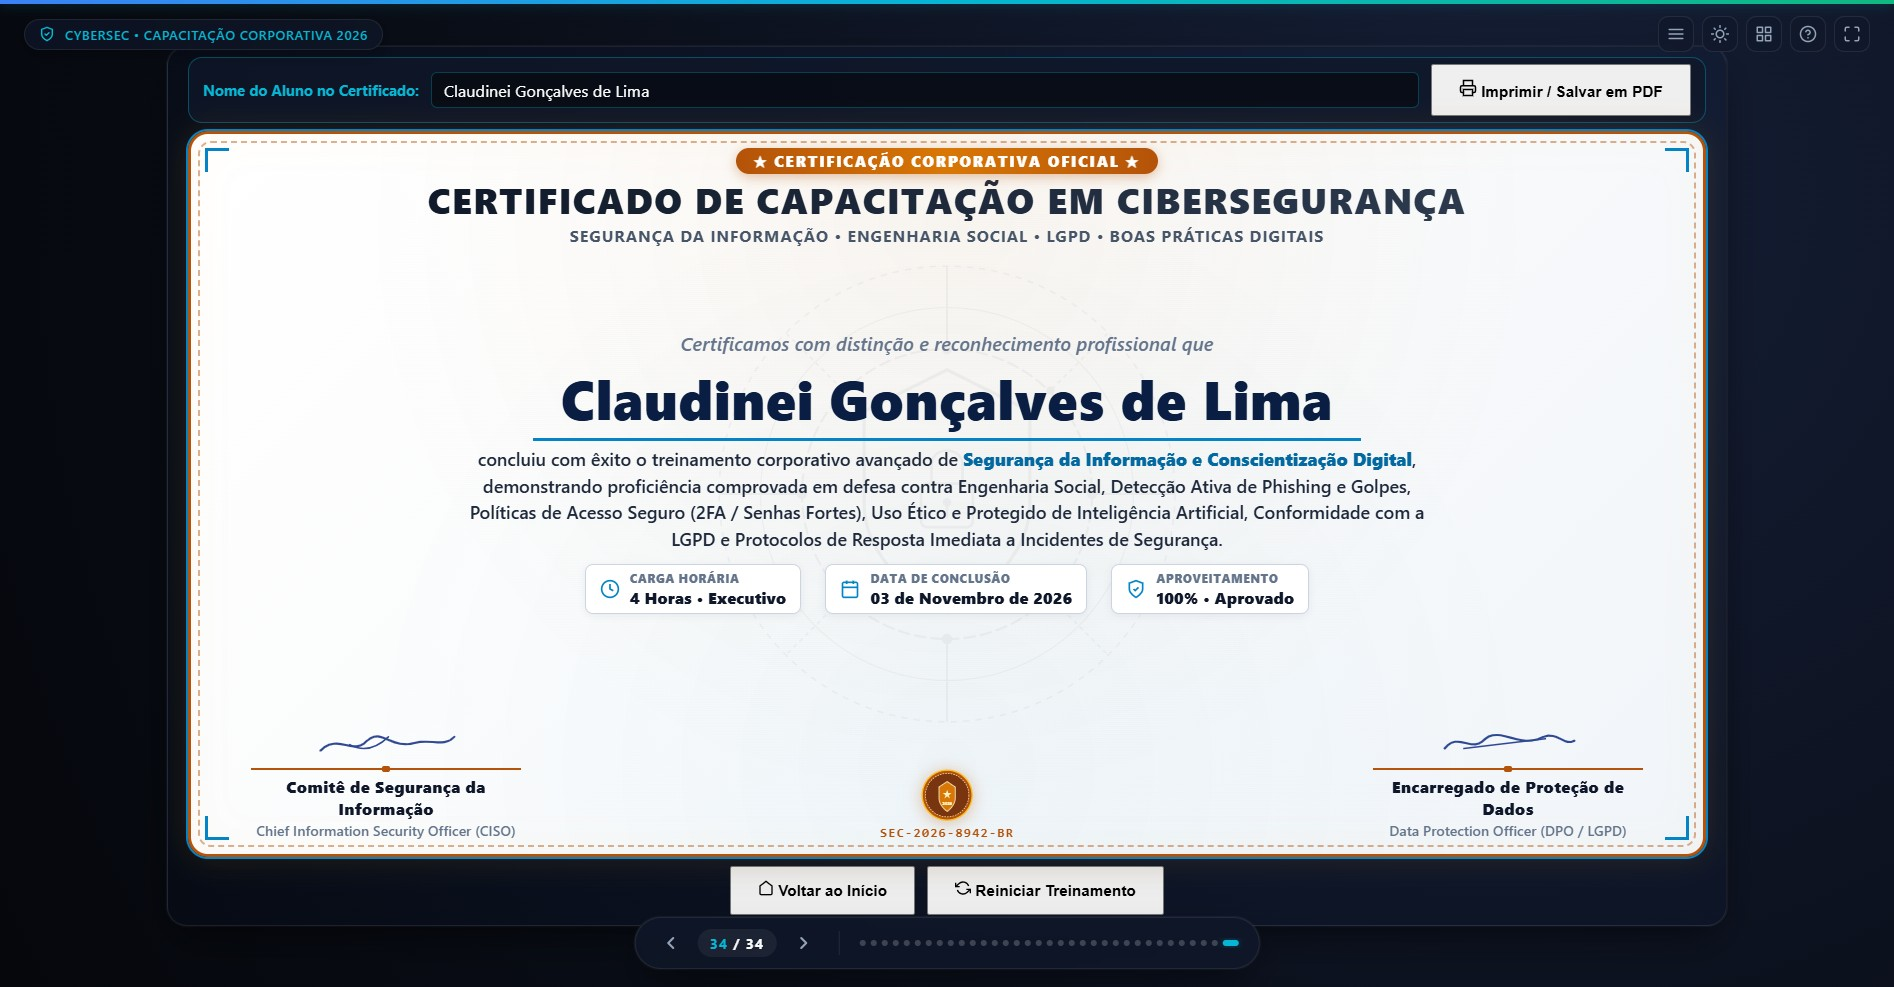
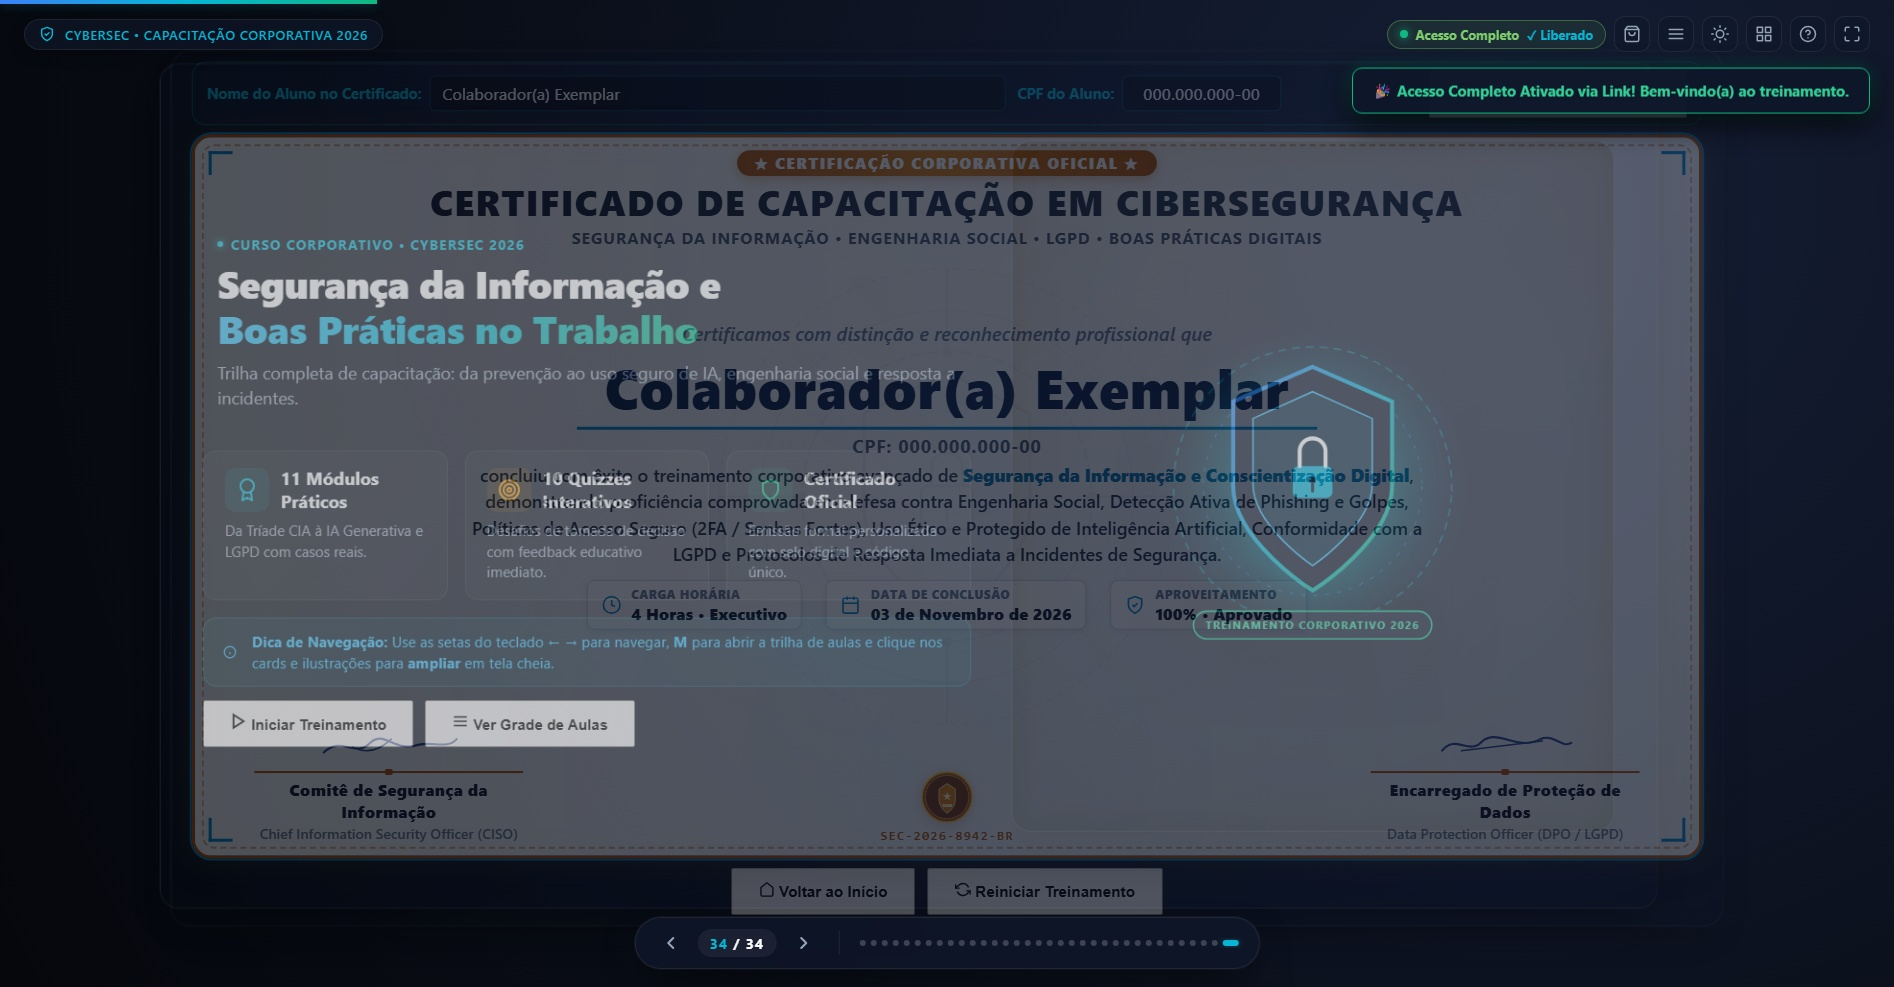
feat: remove pacote corporativo B2B da landing e adiciona campo de CPF dinamico ao certificado

diff --git a/landing.html b/landing.html
@@ -329,7 +329,7 @@
         <div class="lp-module-item" style="border-color: rgba(245, 158, 11, 0.4); background: rgba(245, 158, 11, 0.04);">
           <div class="lp-module-badge" style="color: #fbbf24;">Módulo 11 • Conclusão</div>
           <h3 class="lp-module-title">Dashboard Executivo & Certificação Oficial</h3>
-          <p class="lp-module-desc">Revise seu histórico de pontuação, verifique sua taxa de acerto nos quizzes e emita o certificado com seu nome e data.</p>
+          <p class="lp-module-desc">Revise seu histórico de pontuação, verifique sua taxa de acerto nos quizzes e emita o certificado oficial com seu nome, CPF e data de conclusão.</p>
           <div class="lp-module-topics">
             <span class="lp-module-pill">Score 100%</span>
             <span class="lp-module-pill">Certificado Oficial</span>
@@ -423,7 +423,7 @@
             </li>
             <li class="lp-pricing-item">
               <svg class="lp-check-icon" viewBox="0 0 24 24" fill="none" stroke="currentColor" stroke-width="2.5"><polyline points="20 6 9 17 4 12"/></svg>
-              <span><strong>Certificado Executivo Oficial</strong> em PDF</span>
+              <span><strong>Certificado Executivo Oficial</strong> em PDF (com Nome e CPF)</span>
             </li>
             <li class="lp-pricing-item">
               <svg class="lp-check-icon" viewBox="0 0 24 24" fill="none" stroke="currentColor" stroke-width="2.5"><polyline points="20 6 9 17 4 12"/></svg>
@@ -440,36 +440,6 @@
           </p>
         </div>
 
-        <!-- Plano Corporativo B2B -->
-        <div class="lp-pricing-card lp-pricing-card-b2b">
-          <h3 class="lp-pricing-title">Pacote Corporativo (Empresas)</h3>
-          <p class="lp-pricing-desc">Capacite toda a sua equipe para cumprimento imediato das normas da LGPD e ISO 27001.</p>
-
-          <div class="lp-price-box">
-            <div style="font-size: 1.1rem; color: var(--lp-cyan); font-weight: 800; margin-bottom: 4px;">PLANO PERSONALIZADO</div>
-            <div style="font-size: 2.2rem; font-weight: 900; color: #fff;">Consulte Pacotes</div>
-            <div class="lp-price-installments">Condições sob medida a partir de 10 colaboradores</div>
-          </div>
-
-          <ul class="lp-pricing-list">
-            <li class="lp-pricing-item">
-              <svg class="lp-check-icon" viewBox="0 0 24 24" fill="none" stroke="currentColor" stroke-width="2.5"><polyline points="20 6 9 17 4 12"/></svg>
-              <span><strong>Logotipo da sua empresa</strong> no certificado</span>
-            </li>
-            <li class="lp-pricing-item">
-              <svg class="lp-check-icon" viewBox="0 0 24 24" fill="none" stroke="currentColor" stroke-width="2.5"><polyline points="20 6 9 17 4 12"/></svg>
-              <span>Relatório de conclusão para auditoria e RH</span>
-            </li>
-            <li class="lp-pricing-item">
-              <svg class="lp-check-icon" viewBox="0 0 24 24" fill="none" stroke="currentColor" stroke-width="2.5"><polyline points="20 6 9 17 4 12"/></svg>
-              <span>Emissão de Nota Fiscal Corporativa</span>
-            </li>
-          </ul>
-
-          <a href="https://wa.me/5500000000000?text=Olá!%20Gostaria%20de%20um%20orçamento%20corporativo%20para%20o%20Treinamento%20de%20Cibersegurança." class="lp-btn lp-btn-secondary lp-btn-lg" style="width: 100%;" target="_blank" rel="noopener">
-            Falar com Consultor B2B
-          </a>
-        </div>
       </div>
 
       <!-- Garantia -->
@@ -545,7 +515,7 @@
             <svg class="lp-faq-icon" viewBox="0 0 24 24" fill="none" stroke="currentColor" stroke-width="2.5"><polyline points="6 9 12 15 18 9"/></svg>
           </button>
           <div class="lp-faq-answer">
-            <p>Sim, com certeza! Emitimos notas fiscais para pessoas físicas e jurídicas (PJ). Para pacotes corporativos de equipes, entre em contato pelo nosso atendimento B2B.</p>
+            <p>Sim, com certeza! Emitimos notas fiscais para pessoas físicas e jurídicas (PJ) para comprovação ou reembolso corporativo.</p>
           </div>
         </div>
       </div>

diff --git a/js/presentation.js b/js/presentation.js
@@ -124,7 +124,8 @@
     isUnlockModalOpen: false,
     toastTimer: null,
     quizzes: {},
-    studentName: 'Colaborador Exemplar',
+    studentName: 'Colaborador(a) Exemplar',
+    studentCpf: '000.000.000-00',
     touchStartX: 0,
     touchStartY: 0,
     touchEndX: 0,
@@ -161,7 +162,9 @@
     drawerProgressPercent: document.getElementById('drawer-progress-percent'),
     drawerProgressBar: document.getElementById('drawer-progress-bar'),
     certStudentNameInput: document.getElementById('cert-student-name'),
+    certStudentCpfInput: document.getElementById('cert-student-cpf'),
     certDisplayName: document.getElementById('cert-display-name'),
+    certDisplayCpf: document.getElementById('cert-display-cpf'),
     statModulesCompleted: document.getElementById('stat-modules-completed'),
     statScorePercent: document.getElementById('stat-score-percent'),
     paywallModal: document.getElementById('paywall-modal'),
@@ -222,7 +225,11 @@
       if (savedQuizzes) state.quizzes = JSON.parse(savedQuizzes);
 
       const savedName = localStorage.getItem('cybersec_student_name');
-      if (savedName) state.studentName = savedName;
+      if (savedName && !savedName.toLowerCase().includes('claudinei')) {
+        state.studentName = savedName;
+      }
+      const savedCpf = localStorage.getItem('cybersec_student_cpf');
+      if (savedCpf) state.studentCpf = savedCpf;
     } catch (e) {
       console.warn('Não foi possível acessar localStorage:', e);
     }
@@ -235,6 +242,7 @@
     try {
       localStorage.setItem('cybersec_quizzes', JSON.stringify(state.quizzes));
       localStorage.setItem('cybersec_student_name', state.studentName);
+      localStorage.setItem('cybersec_student_cpf', state.studentCpf || '');
     } catch (e) {
       console.warn('Erro ao salvar no localStorage:', e);
     }
@@ -656,16 +664,52 @@
       }
     }
 
+    function formatCPF(val) {
+      const digits = val.replace(/\D/g, '').slice(0, 11);
+      if (digits.length <= 3) return digits;
+      if (digits.length <= 6) return `${digits.slice(0, 3)}.${digits.slice(3)}`;
+      if (digits.length <= 9) return `${digits.slice(0, 3)}.${digits.slice(3, 6)}.${digits.slice(6)}`;
+      return `${digits.slice(0, 3)}.${digits.slice(3, 6)}.${digits.slice(6, 9)}-${digits.slice(9, 11)}`;
+    }
+
+    function updateCertDisplays() {
+      const name = (state.studentName || '').trim() || 'Colaborador(a) Exemplar';
+      if (dom.certDisplayName) dom.certDisplayName.textContent = name;
+
+      if (dom.certDisplayCpf) {
+        const cpf = (state.studentCpf || '').trim();
+        if (cpf) {
+          dom.certDisplayCpf.textContent = `CPF: ${cpf}`;
+          dom.certDisplayCpf.style.display = 'block';
+        } else {
+          dom.certDisplayCpf.textContent = '';
+          dom.certDisplayCpf.style.display = 'none';
+        }
+      }
+    }
+
     if (dom.certStudentNameInput && dom.certDisplayName) {
       dom.certStudentNameInput.value = state.studentName;
-      dom.certDisplayName.textContent = state.studentName;
+      if (dom.certStudentCpfInput) {
+        dom.certStudentCpfInput.value = state.studentCpf;
+      }
+      updateCertDisplays();
 
       dom.certStudentNameInput.addEventListener('input', (e) => {
-        const val = e.target.value.trim() || 'Colaborador Exemplar';
-        state.studentName = val;
-        dom.certDisplayName.textContent = val;
+        state.studentName = e.target.value;
+        updateCertDisplays();
         saveProgress();
       });
+
+      if (dom.certStudentCpfInput) {
+        dom.certStudentCpfInput.addEventListener('input', (e) => {
+          const formatted = formatCPF(e.target.value);
+          e.target.value = formatted;
+          state.studentCpf = formatted;
+          updateCertDisplays();
+          saveProgress();
+        });
+      }
     }
   }
 

diff --git a/index.html b/index.html
@@ -3235,10 +3235,16 @@
          ========================================== -->
     <section class="slide" id="slide-34" data-index="34">
       <div class="cert-slide-content">
-        <!-- Campo para o Aluno Personalizar seu Nome -->
+        <!-- Campo para o Aluno Personalizar seu Nome e CPF -->
         <div class="cert-input-row">
-          <label for="cert-student-name">Nome do Aluno no Certificado:</label>
-          <input type="text" id="cert-student-name" class="cert-name-input" placeholder="Digite seu nome completo aqui..." value="Colaborador Exemplar" />
+          <div class="cert-input-col">
+            <label for="cert-student-name">Nome do Aluno no Certificado:</label>
+            <input type="text" id="cert-student-name" class="cert-name-input" placeholder="Digite seu nome completo aqui..." value="Colaborador(a) Exemplar" />
+          </div>
+          <div class="cert-input-col cert-input-col-cpf">
+            <label for="cert-student-cpf">CPF do Aluno:</label>
+            <input type="text" id="cert-student-cpf" class="cert-name-input cert-cpf-input" placeholder="000.000.000-00" maxlength="14" value="000.000.000-00" />
+          </div>
           <button class="action-pill primary" id="btn-print-certificate" onclick="window.print()">
             <svg width="18" height="18" viewBox="0 0 24 24" fill="none" stroke="currentColor" stroke-width="2"><polyline points="6 9 6 2 18 2 18 9"/><path d="M6 18H4a2 2 0 0 1-2-2v-5a2 2 0 0 1 2-2h16a2 2 0 0 1 2 2v5a2 2 0 0 1-2 2h-2"/><rect x="6" y="14" width="12" height="8"/></svg>
             Imprimir / Salvar em PDF
@@ -3290,7 +3296,8 @@
 
           <div class="cert-body">
             <p class="cert-certifies">Certificamos com distinção e reconhecimento profissional que</p>
-            <div class="cert-student-name-display" id="cert-display-name">Colaborador Exemplar</div>
+            <div class="cert-student-name-display" id="cert-display-name">Colaborador(a) Exemplar</div>
+            <div class="cert-student-cpf-display" id="cert-display-cpf"></div>
             <p class="cert-statement">
               concluiu com êxito o treinamento corporativo avançado de <strong>Segurança da Informação e Conscientização Digital</strong>,
               demonstrando proficiência comprovada em defesa contra Engenharia Social, Detecção Ativa de Phishing e Golpes,

diff --git a/css/styles.css b/css/styles.css
@@ -2315,9 +2315,23 @@ body.light-mode .zoomed-subtitle-large {
   padding: 6px 14px;
   border-radius: var(--border-radius-md);
   flex-shrink: 0;
+  flex-wrap: wrap;
 }
 
-.cert-input-row label {
+.cert-input-col {
+  display: flex;
+  align-items: center;
+  gap: 8px;
+  flex: 2;
+  min-width: 220px;
+}
+
+.cert-input-col-cpf {
+  flex: 1;
+  min-width: 170px;
+}
+
+.cert-input-col label {
   font-size: clamp(0.78rem, 0.88vw, 0.92rem);
   font-weight: 700;
   color: var(--cyan-accent);
@@ -2325,6 +2339,7 @@ body.light-mode .zoomed-subtitle-large {
 }
 
 .cert-name-input {
+  width: 100%;
   flex: 1;
   background: rgba(0, 0, 0, 0.45);
   border: 1px solid rgba(6, 182, 212, 0.3);
@@ -2335,6 +2350,12 @@ body.light-mode .zoomed-subtitle-large {
   font-family: inherit;
   outline: none;
   transition: var(--transition-smooth);
+}
+
+.cert-cpf-input {
+  max-width: 160px;
+  text-align: center;
+  letter-spacing: 0.5px;
 }
 
 .cert-name-input:focus {
@@ -2498,11 +2519,20 @@ body.light-mode .zoomed-subtitle-large {
   font-size: clamp(1.8rem, 3vw, 3.4rem);
   font-weight: 900;
   color: #091e42;
-  margin: 5px 0;
+  margin: 4px 0 2px 0;
   border-bottom: 3px solid #0284c7;
   display: inline-block;
   padding: 0 28px 4px 28px;
   letter-spacing: 0.5px;
+}
+
+.cert-student-cpf-display {
+  font-size: clamp(0.85rem, 1vw, 1.12rem);
+  font-weight: 700;
+  color: #475569;
+  letter-spacing: 1px;
+  margin: 2px 0 6px 0;
+  display: none;
 }
 
 .cert-statement {

diff --git a/css/landing.css b/css/landing.css
@@ -600,11 +600,11 @@ body {
 
 /* Oferta & Tabela de Preços */
 .lp-pricing-wrapper {
-  display: grid;
-  grid-template-columns: 1fr 0.9fr;
-  gap: 30px;
-  max-width: 980px;
+  display: flex;
+  justify-content: center;
+  max-width: 540px;
   margin: 0 auto;
+  width: 100%;
 }
 
 .lp-pricing-card {
